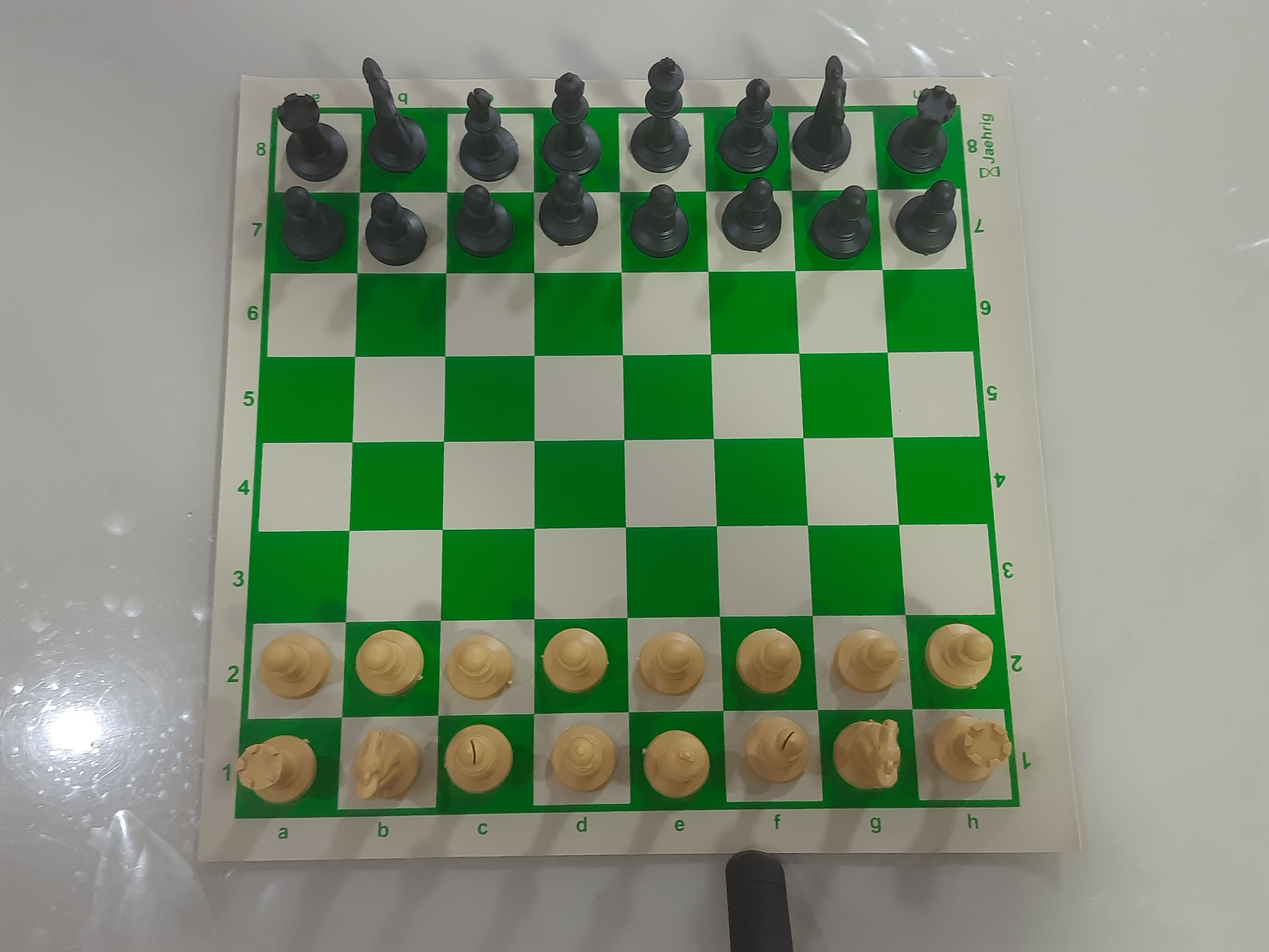
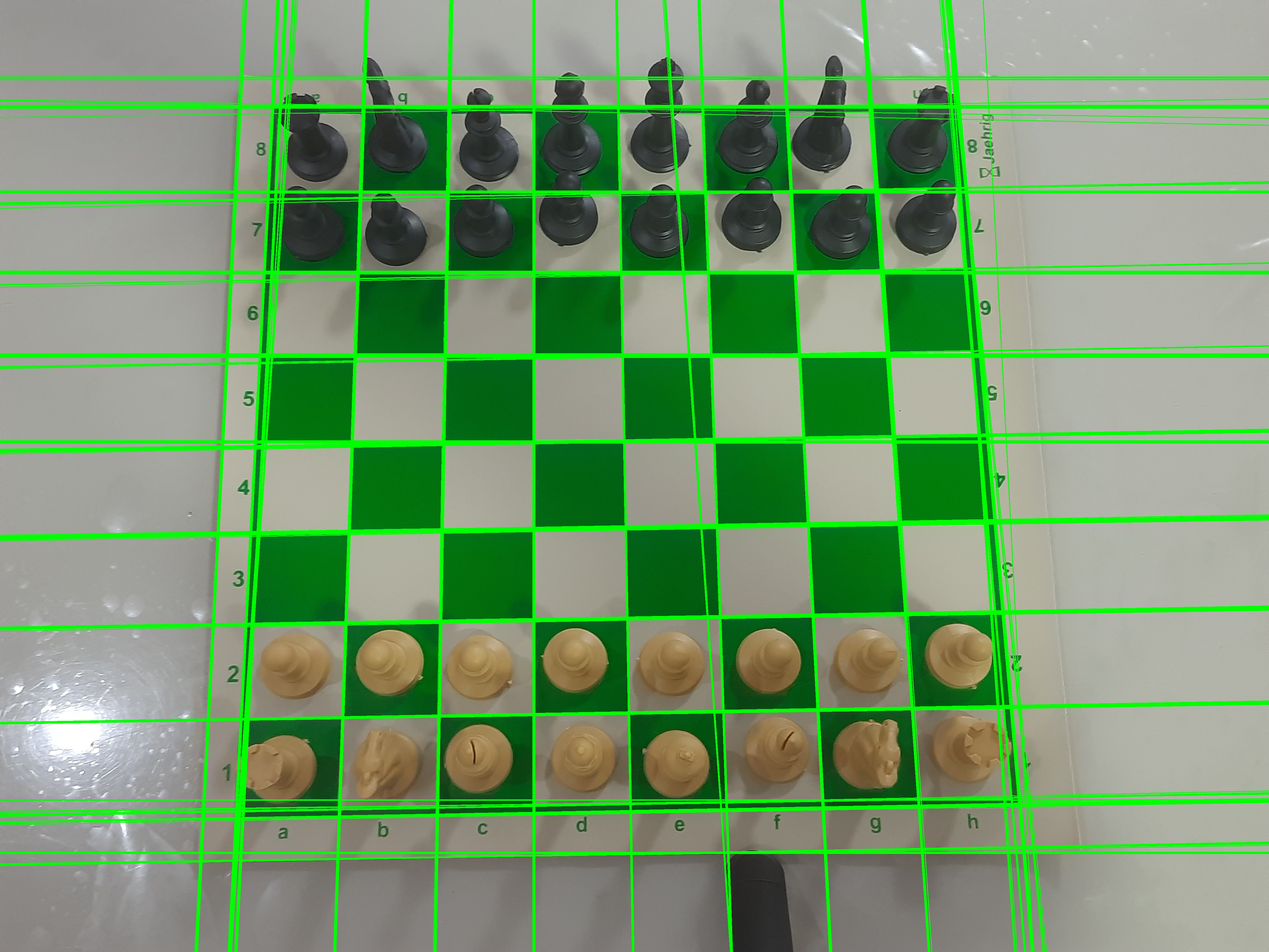
remove code no more needed and fix extrapolated_lines image

Changed region(s): [[0.0, 0.0, 1.0, 1.0], [0.0, 0.9031, 0.1246, 0.9343]]

diff --git a/detect_chessboard.py b/detect_chessboard.py
@@ -138,21 +138,6 @@ def process_image(img):
     rect = find_extreme_points(intersections)
     warped = apply_perspective_transform(img, rect)
 
-    # Uncomment the lines below to visualize the output image.
-    # cv2.namedWindow("output", cv2.WINDOW_NORMAL)
-    # cv2.imshow("output", warped)
-    # wait_key()
-    # cv2.destroyAllWindows()
-
-    # Uncomment the lines below to save example images
-    # cv2.imwrite("./examples/original.jpg", img)
-    # cv2.imwrite("./examples/gray.jpg", gray)
-    # cv2.imwrite("./examples/median_blurred.jpg", median_blurred)
-    # cv2.imwrite("./examples/edges.jpg", edges)
-    # cv2.imwrite("./examples/dilated.jpg", dilated)
-    # cv2.imwrite("./examples/extrapolated_lines.jpg", img)
-    # cv2.imwrite("./examples/warped.jpg", warped)
-
     return warped
 
 def save_image(img, output_path):
